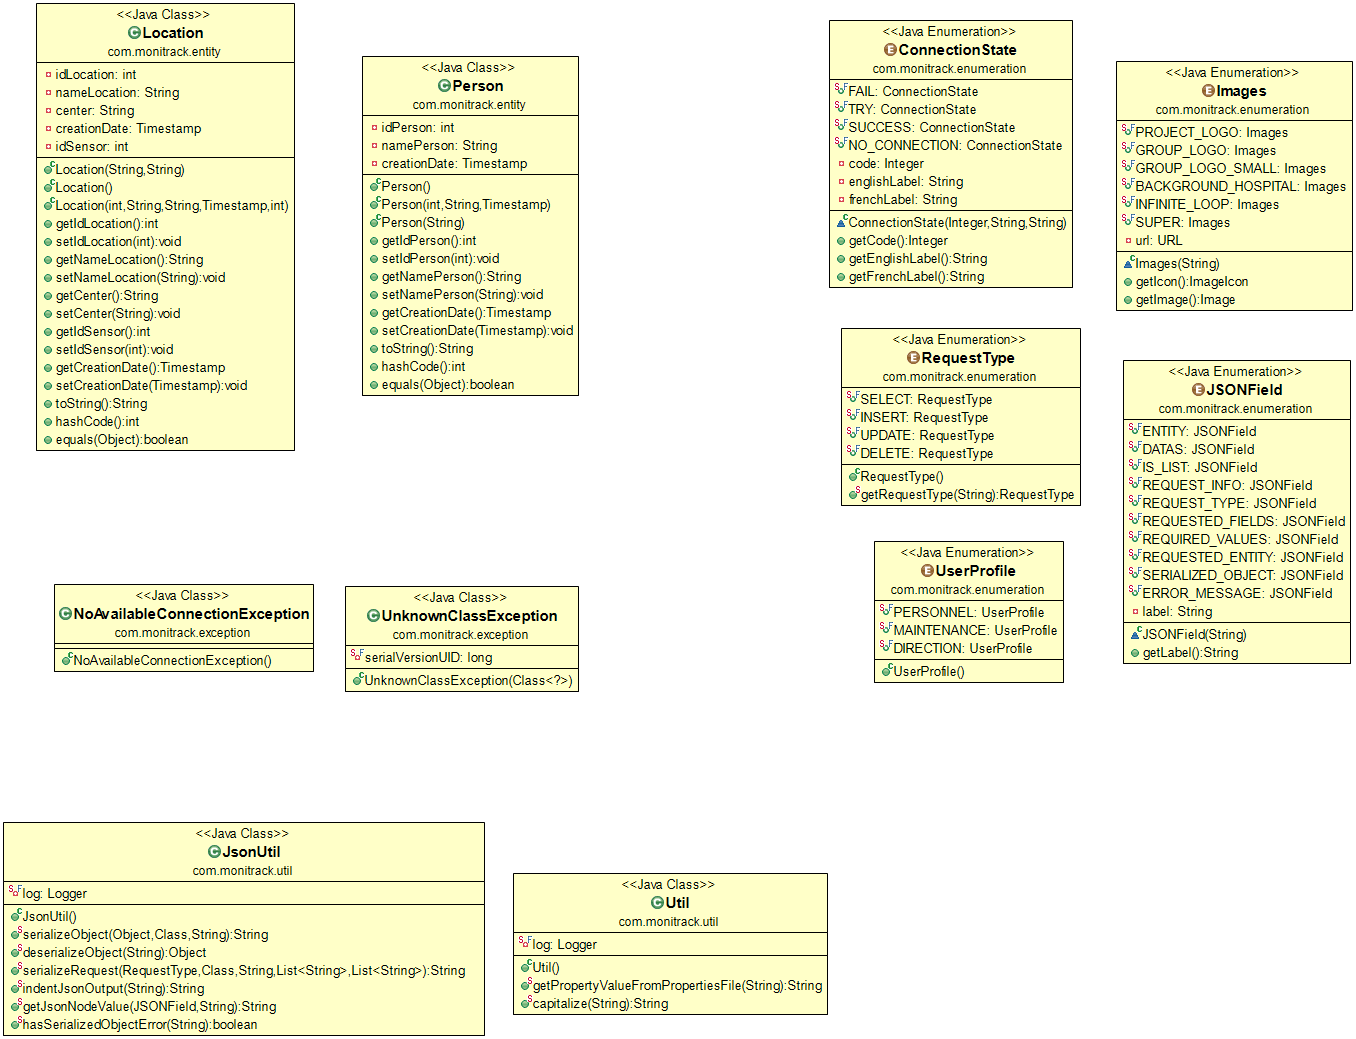
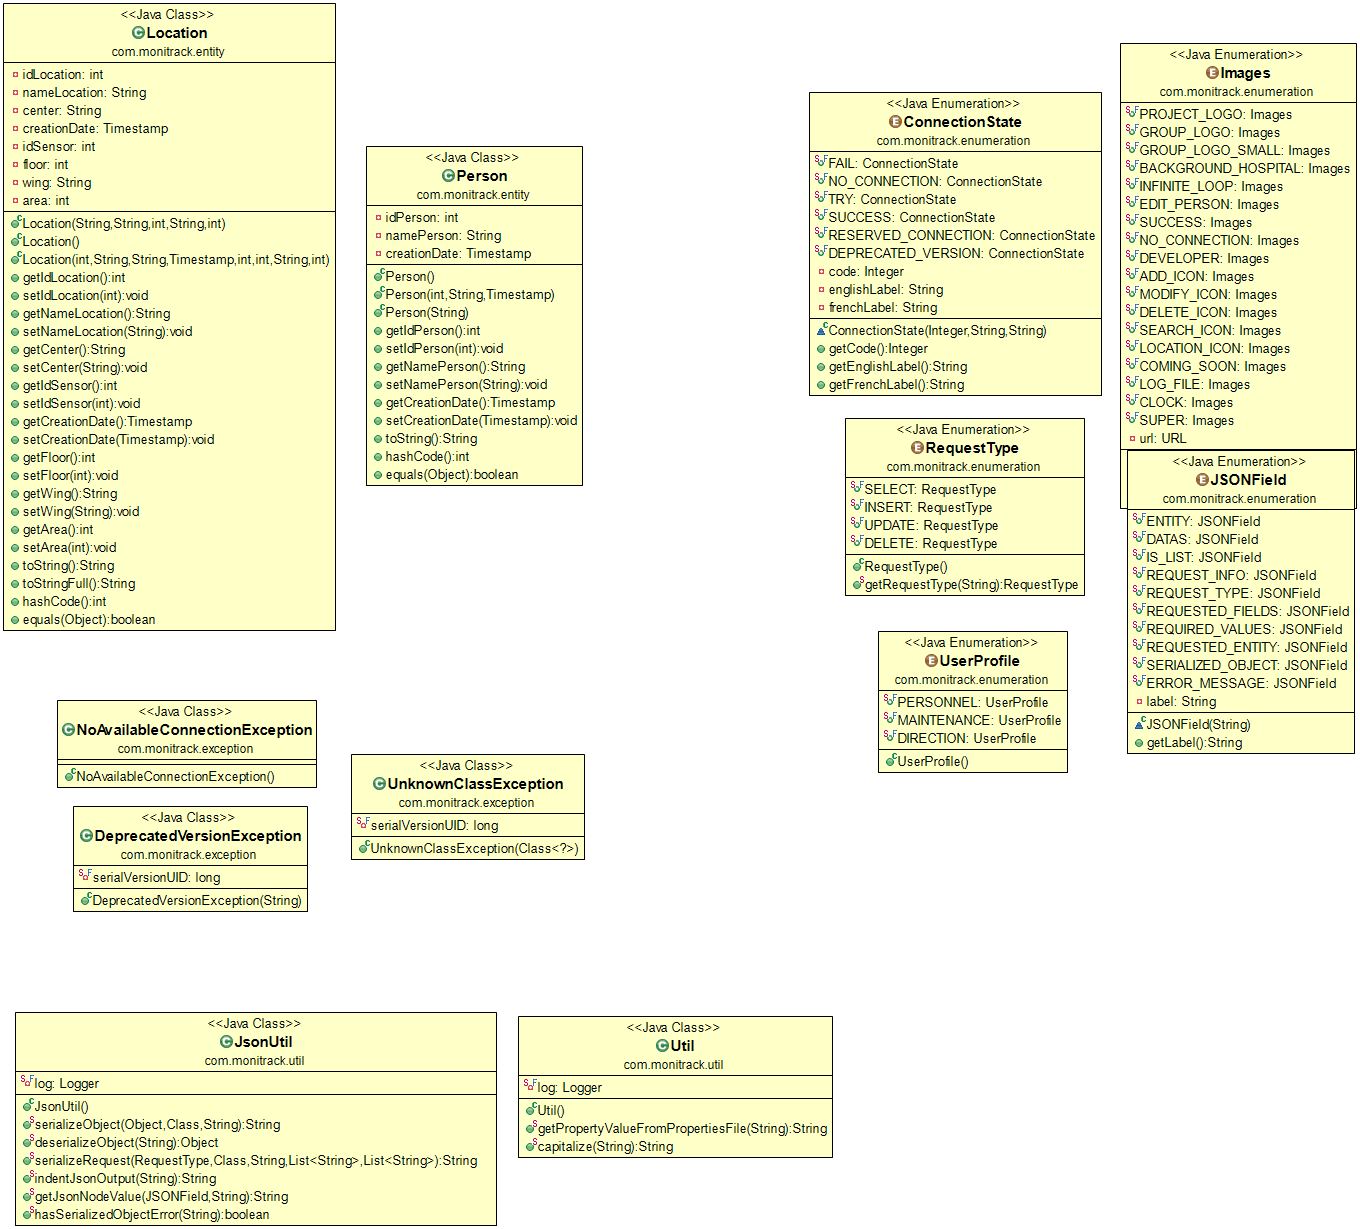
Message si version de l'application client obselète
Un message indiquant que la version de l'application client est ancienne
est affiché s'il ne possède pas la même version que le serveur.

diff --git a/monitrack-service/src/main/java/com/monitrack/socket/server/RequestHandler.java b/monitrack-service/src/main/java/com/monitrack/socket/server/RequestHandler.java
@@ -18,7 +18,6 @@ import com.monitrack.dao.implementation.DAOFactory;
 import com.monitrack.enumeration.ConnectionState;
 import com.monitrack.enumeration.JSONField;
 import com.monitrack.enumeration.RequestType;
-import com.monitrack.exception.DeprecatedVersionException;
 import com.monitrack.exception.UnknownClassException;
 import com.monitrack.shared.MonitrackServiceFactory;
 import com.monitrack.util.JsonUtil;
@@ -59,10 +58,11 @@ public class RequestHandler implements Runnable {
 			//Check client application version
 			String clientVersion = readFromClient.readLine();
 			String serverVersion = MonitrackServiceFactory.getApplicationVersion();
+			
+			//Check if the client has the same version than the server
 			if(!clientVersion.equalsIgnoreCase("v" + serverVersion))
 			{
 				writeToClient.println(ConnectionState.DEPRECATED_VERSION.getCode() + "v" + serverVersion);
-				throw new DeprecatedVersionException(serverVersion);
 			}
 			else
 			{
@@ -93,10 +93,6 @@ public class RequestHandler implements Runnable {
 				writeToClient.println(responseToClient);				
 			}
 
-		}
-		catch (DeprecatedVersionException e) 
-		{
-			log.error(e.getMessage());
 		}
 		catch (Exception e) 
 		{

diff --git a/monitrack-gui/src/main/java/com/monitrack/listener/MonitrackListener.java b/monitrack-gui/src/main/java/com/monitrack/listener/MonitrackListener.java
@@ -151,6 +151,7 @@ public class MonitrackListener extends WindowAdapter implements ActionListener {
 			@Override
 			public void run() {
 				monitrackFrame.getTimerLabel().setVisible(true);
+				monitrackFrame.getReserveConnectionButton().setEnabled(false);
 				try 
 				{
 					int timeLeft = Integer.parseInt(time);
@@ -165,6 +166,8 @@ public class MonitrackListener extends WindowAdapter implements ActionListener {
 				{
 					log.error(e.getMessage());
 				}
+
+				monitrackFrame.getReserveConnectionButton().setEnabled(true);
 				monitrackFrame.getTimerLabel().setVisible(false);
 				
 			}

diff --git a/monitrack-commons/src/main/java/com/monitrack/exception/DeprecatedVersionException.java b/monitrack-commons/src/main/java/com/monitrack/exception/DeprecatedVersionException.java
@@ -9,7 +9,7 @@ public class DeprecatedVersionException extends Exception {
 	 */
 	public DeprecatedVersionException(String minimumVersion) 
 	{
-		super("The client application is a deprecated version. The version application must at least be " + minimumVersion + " !");
+		super("The client application is a deprecated version. The version of the application must at least be the " + minimumVersion + " ! The server will be accessible but some functionnalities will not work.");
 	}
 
 }

diff --git a/monitrack-gui/src/main/java/com/monitrack/socket/client/ClientSocket.java b/monitrack-gui/src/main/java/com/monitrack/socket/client/ClientSocket.java
@@ -83,7 +83,6 @@ public class ClientSocket {
 		{
 			log.error(e.getMessage());
 			connectionState = ConnectionState.DEPRECATED_VERSION;
-			exit();
 		}
 		catch (SocketTimeoutException e) 
 		{			
